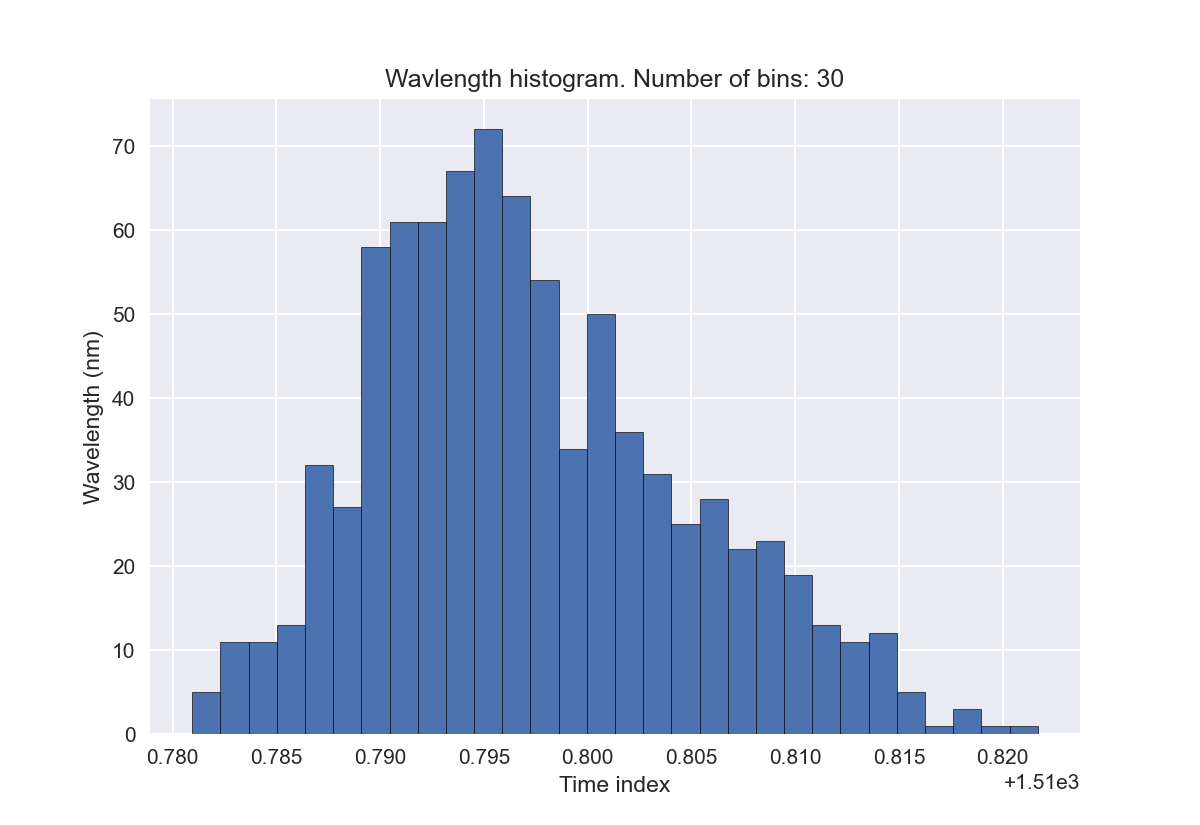
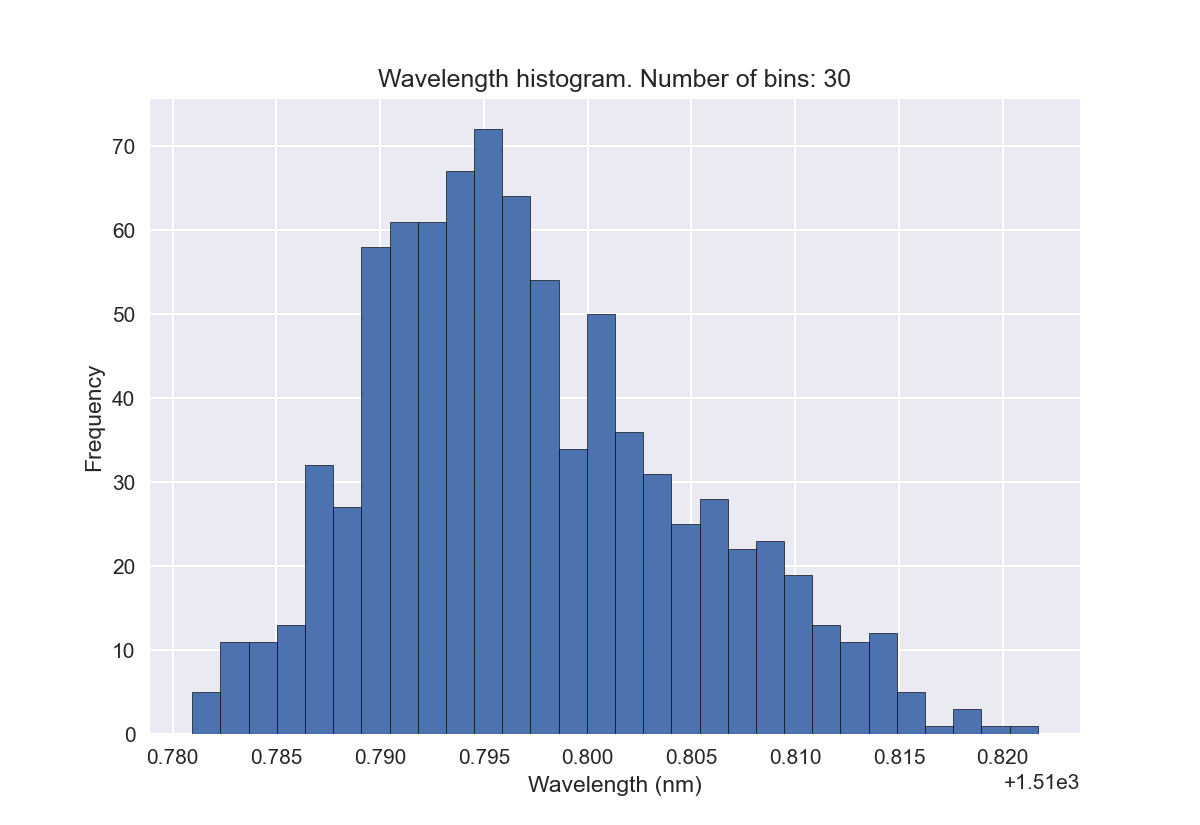
more errors fixed after enabling pylint

Changed region(s): [[0.3083, 0.0606, 0.7092, 0.1212], [0.0617, 0.3939, 0.0925, 0.6061], [0.4317, 0.9394, 0.5858, 0.9697]]

diff --git a/statistics_cw_ver_2.py b/statistics_cw_ver_2.py
@@ -1,3 +1,5 @@
+# pylint: disable=line-too-long, trailing-whitespace
+
 # Imperial College London ME3 Statistics Coursework - Python Code 
  
 # Import necessary libraries:
@@ -5,14 +7,13 @@ import numpy as np
 import pandas as pd
 import random
 import matplotlib.pyplot as plt
-from sklearn.preprocessing import PolynomialFeatures, StandardScaler
+from sklearn.preprocessing import PolynomialFeatures
 from sklearn.linear_model import LinearRegression
-import statsmodels.api as sm
 from scipy import stats
+# import seaborn
 
 # using seaborn style plots
 plt.style.use('seaborn')
-
 
 # Random seed
 random.seed(1847960)
@@ -36,9 +37,9 @@ y = y.reshape(-1, 1)
 def histogram(data, bin_number):
     plt.figure(dpi=150)
     plt.hist(data, bins=bin_number, edgecolor='black')   # plt.hist function is used
-    plt.ylabel('Wavelength (nm)')
-    plt.xlabel('Time index')
-    plt.title(f"Wavlength histogram. Number of bins: {bin_number}")
+    plt.ylabel('Frequency')
+    plt.xlabel('Wavelength (nm)')
+    plt.title(f"Wavelength histogram. Number of bins: {bin_number}")
 
 
 
@@ -52,17 +53,17 @@ def boxplot(data):
 # Question 1(b): Getting general statistics of the wavelngth data
 
 def general_statistics(data):
-    mean = np.mean(y)
-    trimmed_mean = stats.trim_mean(y, 0.1)   #10% trimmed mean
-    median = np.median(y)
+    mean = np.mean(data)
+    trimmed_mean = stats.trim_mean(data, 0.1)   #10% trimmed mean
+    median = np.median(data)
     std_dev = np.std(y, ddof=0)      # This is the population standard deviation (since ddof = 0), different from sample standard deviation 
-    q1, q3 = np.percentile(y, [25, 75])
+    q1, q3 = np.percentile(data, [25, 75])
     iqr = q3 - q1
-
+    
 
     table_data = {
     'Statistic': ['Mean', '10% Trimmed Mean', 'Median', 'Standard Deviation', 'Interquartile Range'],
-    'Value': [mean, trimmed_mean, median, std_dev, iqr]
+    'Value': [mean, trimmed_mean, median, std_dev, iqr],
     }
     
     table = pd.DataFrame(table_data)  # putting the statistics into a pandas datafram
@@ -78,8 +79,6 @@ def scatter_function(x_data, y_data, color_value):
     plt.ylabel('Wavelength (nm)')
     plt.xlabel('Time')
 
-
-
 # Calling above functions for question 1
 histogram(y, 30)  # histogram bins set to 30
 boxplot(y)
@@ -87,15 +86,13 @@ boxplot(y)
 stats_table , std_dev = general_statistics(y)
 print(stats_table)
 print(" ")
-
-
 # _____________________________________________________________________________________________________________________________________________
 
 # QUESTION 2
 
-# Question 2(a): defining a linear_regression function to output the predicted y values based in inputted x_data , y_data and the desired order 'k'
+# Question 2(a): defining a polynomial_regression function to output the predicted y values based in inputted x_data , y_data and the desired order 'k'
 
-def linear_regression(x_data, y_data, k):
+def polynomial_regression(x_data, y_data, k):
     poly = PolynomialFeatures(degree=k, include_bias=False)   # using the required PolynomialFeatures function
     x_poly = poly.fit_transform(x_data)
     model = LinearRegression().fit(x_poly, y_data)
@@ -104,15 +101,14 @@ def linear_regression(x_data, y_data, k):
     return y_predicted
 
 
+scatter_function(x,y,"royalblue")   # CONTINUATION OF 1(C): Calling the scatter function to plot the wavelength against (unstandardised) time data
+plt.title("Wavelength (nm) plotted against time (unstandardised)")
 
-scatter_function(x,y,"green")   # CONTINUATION OF 1(C): Calling the scatter function to plot the wavelength against (unstandardised) time data
-plt.title("Wavlength (nm) plotted against time (unstandardised)")
+y_predicted_simple = polynomial_regression(x,y,1)  # 2(a) - calling polynomial_regression function to plot linear fit on scatter plot. Therefore order k=1 is inputted into function
+plt.plot(x, y_predicted_simple, label='Simple Linear Regression', color='orangered')
 
-y_predicted_simple = linear_regression(x,y,1)  # 2(a) - calling linear_regression function to plot linear fit on scatter plot. Therefore order k=1 is inputted into function
-plt.plot(x, y_predicted_simple, label='Simple Linear Regression')
-
-y_predicted_quadratic = linear_regression(x,y,2) # 2(b) - calling linear_regression function to plot quadratic fit on scatter plot. Therefore order k=2 is inputted into function
-plt.plot(x, y_predicted_quadratic, label='Quadratic Fit', color='orange')
+y_predicted_quadratic = polynomial_regression(x,y,2) # 2(b) - calling polynomial_regression function to plot quadratic fit on scatter plot. Therefore order k=2 is inputted into function
+plt.plot(x, y_predicted_quadratic, label='Quadratic Fit', color='dimgrey')
 plt.legend()
 
 # _____________________________________________________________________________________________________________________________________________
@@ -128,11 +124,6 @@ def standardisation(data):
 
 x_standardised = standardisation(x)    # calling standardisation function to standardise the time index
 
-scatter_function(x_standardised,y,'dimgrey')  # making a new scatter plot for wavelength against STANDARDISED time data
-plt.title('Standardised Wavelength plot')
-
-# _____________________________________________________________________________________________________________________________________________
-
 # Continuation of 2(c) and 2(d): Fitting higher order polynomials, calculating maximum log-likelihood and getting the AIC criterion
 
 # Log-likelihood function
@@ -143,24 +134,25 @@ def log_likelihood(actual_data, predicted_data, std_dev):
 
     return value
 
-
-k_max = 8  # setting the maximum order for which linear regression will be performed
-linear_regression_values_df = pd.DataFrame()
+k_max = 8  # setting the maximum order for which polynomial regression will be performed
+regression_values_df = pd.DataFrame()
 
 log_likelihood_arr = np.zeros(k_max)
 
 
 for i in range(1, k_max+1):
     
-    y_temp = linear_regression(x_standardised, y, i)  # finding the predicted y values for that specific order, starting from k=1, by calling the linear_regression func
-    plt.plot(x_standardised, y_temp, label='Order ' + str(i))   # standardised time is used
-    
+    y_temp = polynomial_regression(x_standardised, y, i)  # finding the predicted y values for that specific order, starting from k=1, by calling the polynomial_regression func
+
     log_likelihood_arr[i-1] = log_likelihood(y, y_temp, std_dev)  # storing the max log-likelihood for the regression order
     
-    linear_regression_values_df[str(i)] = y_temp.tolist()   # storing the predicted y values into a new column in a pandas dataframe
+    regression_values_df[str(i)] = y_temp.tolist()   # storing the predicted y values into a new column in a pandas dataframe
 
-
-plt.legend()
+    # Plotting the higher order regressions on a new scatter plot per order
+    scatter_function(x_standardised, y, 'royalblue')
+    plt.plot(x_standardised, y_temp, color='orangered', label=f'Polynomial regression of order {str(i)}')
+    plt.title('Standardised Wavelength data with higher order polynomial regression')
+    plt.legend()
 
 # _____________________________________________________________________________________________________________________________________________
 
@@ -177,7 +169,7 @@ def AIC(log_data, k_max):
 
     AIC_table = pd.DataFrame() # storing the AIC data in a pandas dataframe
 
-    AIC_table['Linear regression Order (ie parameters)'] = np.arange(1, k_max+1, 1)
+    AIC_table['Regression Order'] = np.arange(1, k_max+1, 1)
     AIC_table['Max Log likelihood'] = log_data
     AIC_table['AIC'] = AIC_arr
 
@@ -189,7 +181,7 @@ def AIC(log_data, k_max):
 AIC_table , k_selected = AIC(log_likelihood_arr, k_max)
 print(AIC_table)
 print(" ")
-print("Chosen model for linear regression based on lowest AIC value is of order: ", k_selected)
+print("Chosen model for Polynomial regression based on lowest AIC value is of order: ", k_selected)
 
 # _____________________________________________________________________________________________________________________________________________
 
@@ -199,12 +191,22 @@ def residual(actual_data, predicted_data):
     residual_arr = actual_data - predicted_data
     return residual_arr
 
-y_pred_chosen_order = np.array(linear_regression_values_df[str(k_selected)].values.tolist())  # getting the values from 2(c) which was stored in a dataframe and pytting into a numpy array
+y_pred_chosen_order = np.array(regression_values_df[str(k_selected)].values.tolist())  # getting the values from 2(c) which was stored in a dataframe and pytting into a numpy array
 
 residuals = residual(y, y_pred_chosen_order)  # calculating the residuals for that order
 
 residuals_arr_standardised = standardisation(residuals).flatten()   # standardising the residuals data
 res_std_dev = np.std(residuals_arr_standardised)  # finding the population std deviation of the standardised residual data
+
+
+# Plotting a residuals scatter plot to check homoscedasticity 
+plt.figure(dpi=150)
+plt.plot(y_pred_chosen_order, residuals_arr_standardised, '.')
+plt.axhline(0, linestyle= '--', color='orangered')
+plt.title('Residuals plot')
+plt.ylabel('Standardised residuals')
+plt.xlabel('Wavelength (nm)')
+
 
 quantiles = np.random.normal(0, res_std_dev, len(residuals_arr_standardised))   # finding the normal distribution of that residual_data using mean = 0 (since residual_data is standardised) and standard deviation = res_std_dev
 
@@ -215,13 +217,14 @@ residuals_arr_standardised.sort()
 
 plt.figure(dpi=150)
 plt.plot(quantiles, residuals_arr_standardised, '.')  # plotting the sorted quantiles on the x axis, and the residuals on the y_axis to make a residual q-q plot
-plt.axline((0,0), (1,1), color='green', linestyle='--')  # plotting a y=x line to see the deviation from a normal distribution
+plt.axline((0,0), (1,1), color='orangered', linestyle='--')  # plotting a y=x line to see the deviation from a normal distribution
 plt.axis('square')
 plt.xlim(-4,4)
 plt.ylim(-4,4)
 plt.ylabel('Residuals')
 plt.xlabel('Normal Quantile')
 plt.title('Residuals Q-Q plot')
+
 
 # _____________________________________________________________________________________________________________________________________________
 
@@ -240,15 +243,15 @@ def sampling(data, increments):
 x_increments_array = np.array(sampling(x_standardised, 10))   # increments set to 10
 y_increments_array = np.array(sampling(y, 10))
 
-# calculating the y_predicted values for the sampled data using the linear_regression function, of order 'k_selected' based on the lowest AIC value
-y_predicted_k_increments = linear_regression(x_increments_array, y_increments_array, k_selected)
+# calculating the y_predicted values for the sampled data using the polynomial_regression function, of order 'k_selected' based on the lowest AIC value
+y_predicted_k_increments = polynomial_regression(x_increments_array, y_increments_array, k_selected)
 
 
-# plotting the sampled x,y data and the linear regression y_pred values 
+# plotting the sampled x,y data and the polynomial regression y_pred values 
 
-scatter_function(x_increments_array, y_increments_array, 'coral')
+scatter_function(x_increments_array, y_increments_array, 'royalblue')
 plt.title('Wavelength against time (standardised) in index increments of 10')
-plt.plot(x_increments_array, y_predicted_k_increments, color='green', label='Order ' + str(k_selected))
+plt.plot(x_increments_array, y_predicted_k_increments, color='red', label='Order ' + str(k_selected))
 
 
 # _____________________________________________________________________________________________________________________________________________
@@ -267,7 +270,7 @@ def bootstrapping(actual_data, predicted_data, iterations):
 
         y_response_bootstrap = predicted_data.flatten() + residuals_bootstrap_iteration  # calculated bootstrapped response array using bootstrap_sample and predicted data.  denoted in notes by y^{*}
 
-        y_predicted_bootstrapped = linear_regression(x_increments_array, y_response_bootstrap, k_selected)  # finding the linear regression y_predicted values for the bootstrapped response
+        y_predicted_bootstrapped = polynomial_regression(x_increments_array, y_response_bootstrap, k_selected)  # finding the regression y_predicted values for the bootstrapped response
 
         bootstrapped_data.append(y_predicted_bootstrapped)   # storing y_predicted_bootstrapped in a list
 
@@ -310,10 +313,12 @@ plt.legend()
 
 bootstrap_multiple_iter = [5, 20, 100, 500, 1200, 3000]   # number of times bootstrapping will be performed
 
-x,y = 0,0  # temporary indices used to create a visually appealing subplot
+a,b = 0,0  # temporary indices used to create a visually appealing subplot
 
 fig,ax = plt.subplots(2,3, dpi=150)
 fig.suptitle(f'Subplots showing 95% confidence interval convergence as bootstrap sample increases')
+fig.supylabel('Wavelength (nm)')
+fig.supxlabel('Time')
 
 for i in range(0, len(bootstrap_multiple_iter)):
 
@@ -324,18 +329,18 @@ for i in range(0, len(bootstrap_multiple_iter)):
     quantile_975 = quantile_function(bootstrapped_df, 0.975)
 
     # temp code to create visual subplot for 2x3 plots
-    if y == 3:
-        y = 0
-        x += 1
+    if b == 3:
+        b = 0
+        a += 1
 
-    # plotting the sampled x,y data; linear regression values and the bootstrapped sample in a subplot
-    ax[x, y].plot(x_increments_array, y_increments_array, '.', color='coral')
-    ax[x, y].plot(x_increments_array, y_predicted_k_increments, color='green')
+    # plotting the sampled x,y data; regression values and the bootstrapped sample in a subplot
+    ax[a, b].plot(x_increments_array, y_increments_array, '.', color='royalblue')
+    ax[a, b].plot(x_increments_array, y_predicted_k_increments, color='orangered')
 
-    ax[x, y].fill_between(x_increments_array.squeeze(), quantile_025, quantile_975, alpha = 0.3)
-    ax[x, y].set_title(f'{bootstrap_multiple_iter[i]} iterations')
+    ax[a, b].fill_between(x_increments_array.squeeze(), quantile_025, quantile_975, alpha = 0.3)
+    ax[a, b].set_title(f'{bootstrap_multiple_iter[i]} iterations')
 
-    y += 1
+    b += 1
 
 for ax in fig.get_axes():
     ax.label_outer()
@@ -344,5 +349,3 @@ fig.tight_layout()
 # _____________________________________________________________________________________________________________________________________________
 
 plt.show()
-
-
